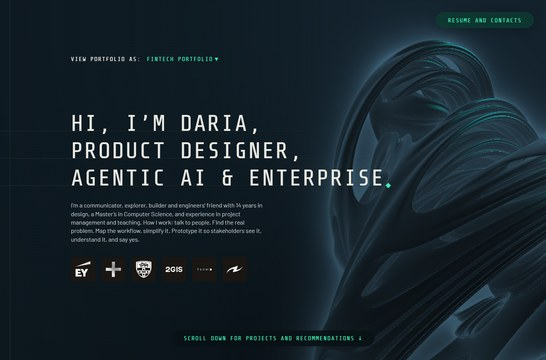
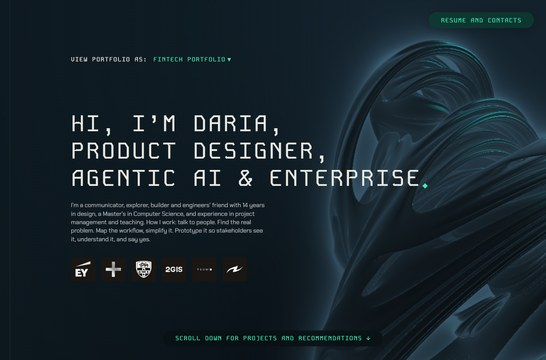
Fintech style: enterprise fonts and sizes, no ruled lines under the hero headline

diff --git a/fintech/index.html b/fintech/index.html
@@ -10,8 +10,16 @@
 <link rel="apple-touch-icon" href="../apple-touch-icon.png">
 <link rel="preconnect" href="https://fonts.googleapis.com">
 <link rel="preconnect" href="https://fonts.gstatic.com" crossorigin>
-<link href="https://fonts.googleapis.com/css2?family=Barlow:wght@300;400;600&family=Share+Tech+Mono&display=swap" rel="stylesheet">
+<link href="https://fonts.googleapis.com/css2?family=Chakra+Petch:wght@300;600&display=swap" rel="stylesheet">
+<link rel="preload" href="../fonts/KodeMono.ttf" as="font" type="font/ttf" crossorigin>
 <style>
+  /* Kode Mono, self-hosted (full character set). License: fonts/OFL.txt */
+  @font-face {
+    font-family: "Kode Mono";
+    src: url("../fonts/KodeMono.ttf") format("truetype");
+    font-weight: 400 700;
+    font-display: swap;
+  }
 
   :root {
     --bg: #121a1c;
@@ -45,7 +53,7 @@
     /* Figma: radial glow centred 977px down, 1920 wide × 2268 tall */
     background: radial-gradient(960px 1134px at 50% 977px, var(--bg-glow), var(--bg)) var(--bg);
     color: var(--ink);
-    font-family: "Share Tech Mono", ui-monospace, monospace;
+    font-family: "Kode Mono", ui-monospace, monospace;
   }
 
   @media (max-width: 700px) {
@@ -84,7 +92,7 @@
     -webkit-backdrop-filter: blur(16px);
     box-shadow: 0 4px 32px rgba(0, 0, 0, 0.25);
     color: var(--accent);
-    font: 400 var(--nav-fs)/1.2 "Share Tech Mono", ui-monospace, monospace;
+    font: 400 var(--nav-fs)/1.2 "Kode Mono", ui-monospace, monospace;
     letter-spacing: 0.1em;
     text-transform: uppercase;
     text-decoration: none;
@@ -100,7 +108,7 @@
     backdrop-filter: blur(16px);
     -webkit-backdrop-filter: blur(16px);
     color: var(--accent);
-    font: 400 var(--nav-fs)/1.2 "Share Tech Mono", ui-monospace, monospace;
+    font: 400 var(--nav-fs)/1.2 "Kode Mono", ui-monospace, monospace;
     letter-spacing: 0.1em;
     text-transform: uppercase;
     text-decoration: none;
@@ -192,7 +200,7 @@
     max-width: 513px;
     margin: 24px 0 0;
     color: #fff;
-    font: 300 16px/1.4 Barlow, system-ui, sans-serif;
+    font: 300 16px/1.4 "Chakra Petch", system-ui, sans-serif;
   }
 
   .logos {
@@ -238,13 +246,13 @@
     transition: opacity 0.15s ease, transform 0.15s ease;
   }
   .logos .tip b, .project-award .tip b {
-    font: 400 14px/1.2 "Share Tech Mono", ui-monospace, monospace;
+    font: 400 14px/1.2 "Kode Mono", ui-monospace, monospace;
     letter-spacing: 0.1em;
     text-transform: uppercase;
     color: var(--ink);
   }
   .logos .tip span, .project-award .tip span {
-    font: 300 14px/1.4 Barlow, system-ui, sans-serif;
+    font: 300 14px/1.4 "Chakra Petch", system-ui, sans-serif;
     color: rgba(255, 255, 255, 0.8);
   }
   .logos li:hover .tip,
@@ -360,7 +368,7 @@
     max-width: 392px;
     margin-top: 44px;
     color: #fff;
-    font: 300 16px/1.4 Barlow, system-ui, sans-serif;
+    font: 300 16px/1.4 "Chakra Petch", system-ui, sans-serif;
   }
   .project-desc p { margin: 0 0 12px; }
   .project-desc p:last-child { margin-bottom: 0; }
@@ -375,7 +383,7 @@
     max-width: 400px;
     margin: 44px 0 0;
     color: #fff;
-    font: 300 16px/1.4 Barlow, system-ui, sans-serif;
+    font: 300 16px/1.4 "Chakra Petch", system-ui, sans-serif;
   }
   .project-quote blockquote { margin: 0 0 12px; }
   .project-quote figcaption { font-weight: 600; }
@@ -481,7 +489,7 @@
     gap: 12px;
     margin: 0;
     color: #fff;
-    font: 300 16px/1.4 Barlow, system-ui, sans-serif;
+    font: 300 16px/1.4 "Chakra Petch", system-ui, sans-serif;
   }
   .rec blockquote { margin: 0; }
   .rec figcaption { font-weight: 600; }
@@ -503,7 +511,7 @@
     border-radius: 12px;
     background: var(--body-grey);
     color: #fff;
-    font: 300 16px/1.4 Barlow, system-ui, sans-serif;
+    font: 300 16px/1.4 "Chakra Petch", system-ui, sans-serif;
   }
   .more-thumb { display: block; width: 100%; height: auto; aspect-ratio: 1; border-radius: 6px; }
   /* Thumbnails link like the card's first link; a 10% white veil on hover */
@@ -522,7 +530,7 @@
   .more-card h3 {
     margin: 0;
     color: var(--ink);
-    font: 400 24px/1.2 "Share Tech Mono", ui-monospace, monospace;
+    font: 400 24px/1.2 "Kode Mono", ui-monospace, monospace;
     letter-spacing: 0.07em;
     text-transform: uppercase;
   }
@@ -531,7 +539,7 @@
   /* Link out of a card, styled like the homepage's other links */
   .more-link {
     color: var(--accent);
-    font: 400 var(--nav-fs)/1.2 "Share Tech Mono", ui-monospace, monospace;
+    font: 400 var(--nav-fs)/1.2 "Kode Mono", ui-monospace, monospace;
     letter-spacing: 0.1em;
     text-transform: uppercase;
     text-decoration: none;
@@ -666,10 +674,10 @@
   @media (max-width: 760px) {
     .hero .julia-veil { background: linear-gradient(180deg, rgba(13, 25, 32, 0.55), rgba(13, 25, 32, 0.82) 55%, rgba(13, 25, 32, 0.92)); }
   }
-  .hero h1 { letter-spacing: 0.06em; }
   .hero h1 .dot { background: var(--accent); }
+  .hero h1::before { display: none; }   /* no ruled lines under the headline */
   .intro, .project-desc, .project-quote, .rec { color: #d6dadb; }
-  .project h2, .recs h2, .more h2, .more-card h3 { color: var(--cream); letter-spacing: 0.06em; }
+  .project h2, .recs h2, .more h2, .more-card h3 { color: var(--cream); }
   /* Pill buttons */
   .resume, .button, .scroll-hint { border-radius: 999px; }
   .scroll-hint { background: rgba(8, 16, 20, 0.85); }

diff --git a/tools/build-fintech.py b/tools/build-fintech.py
@@ -1,5 +1,5 @@
 """Writes fintech/index.html from the root index.html: same layout and words, fintech skin
-(from fintech-portfolio.html): navy and mint, Share Tech Mono + Barlow, pill buttons, and a
+(from fintech-portfolio.html): navy and mint, pill buttons, same fonts and sizes as enterprise, and a
 live quaternion Julia set behind the hero (fintech/julia.js) instead of the Lorenz attractor.
 
 Edit index.html (layout, words) or the SKIN list below, then run:
@@ -25,20 +25,6 @@ SKIN = [
     ('title="Choose another portfolio style">enterprise portfolio<',
      'title="Choose another portfolio style">fintech portfolio<'),
     ('data-current="enterprise"', 'data-current="fintech"'),
-
-    # ---- Type: Share Tech Mono for display and labels, Barlow for body
-    ("family=Chakra+Petch:wght@300;600", "family=Barlow:wght@300;400;600&family=Share+Tech+Mono"),
-    ('<link rel="preload" href="fonts/KodeMono.ttf" as="font" type="font/ttf" crossorigin>\n', ""),
-    ('''  /* Kode Mono, self-hosted (full character set). License: fonts/OFL.txt */
-  @font-face {
-    font-family: "Kode Mono";
-    src: url("fonts/KodeMono.ttf") format("truetype");
-    font-weight: 400 700;
-    font-display: swap;
-  }
-''', ""),
-    ('"Kode Mono"', '"Share Tech Mono"'),
-    ('"Chakra Petch"', "Barlow"),
 
     # ---- Colour: navy sections, mint signal, cream titles
     ("--bg: #1e1d19;", "--bg: #121a1c;\n    --hero-bg: #0d1920;\n    --cream: #e7e2c9;"),
@@ -81,10 +67,10 @@ SKIN_CSS = """
   @media (max-width: 760px) {
     .hero .julia-veil { background: linear-gradient(180deg, rgba(13, 25, 32, 0.55), rgba(13, 25, 32, 0.82) 55%, rgba(13, 25, 32, 0.92)); }
   }
-  .hero h1 { letter-spacing: 0.06em; }
   .hero h1 .dot { background: var(--accent); }
+  .hero h1::before { display: none; }   /* no ruled lines under the headline */
   .intro, .project-desc, .project-quote, .rec { color: #d6dadb; }
-  .project h2, .recs h2, .more h2, .more-card h3 { color: var(--cream); letter-spacing: 0.06em; }
+  .project h2, .recs h2, .more h2, .more-card h3 { color: var(--cream); }
   /* Pill buttons */
   .resume, .button, .scroll-hint { border-radius: 999px; }
   .scroll-hint { background: rgba(8, 16, 20, 0.85); }
